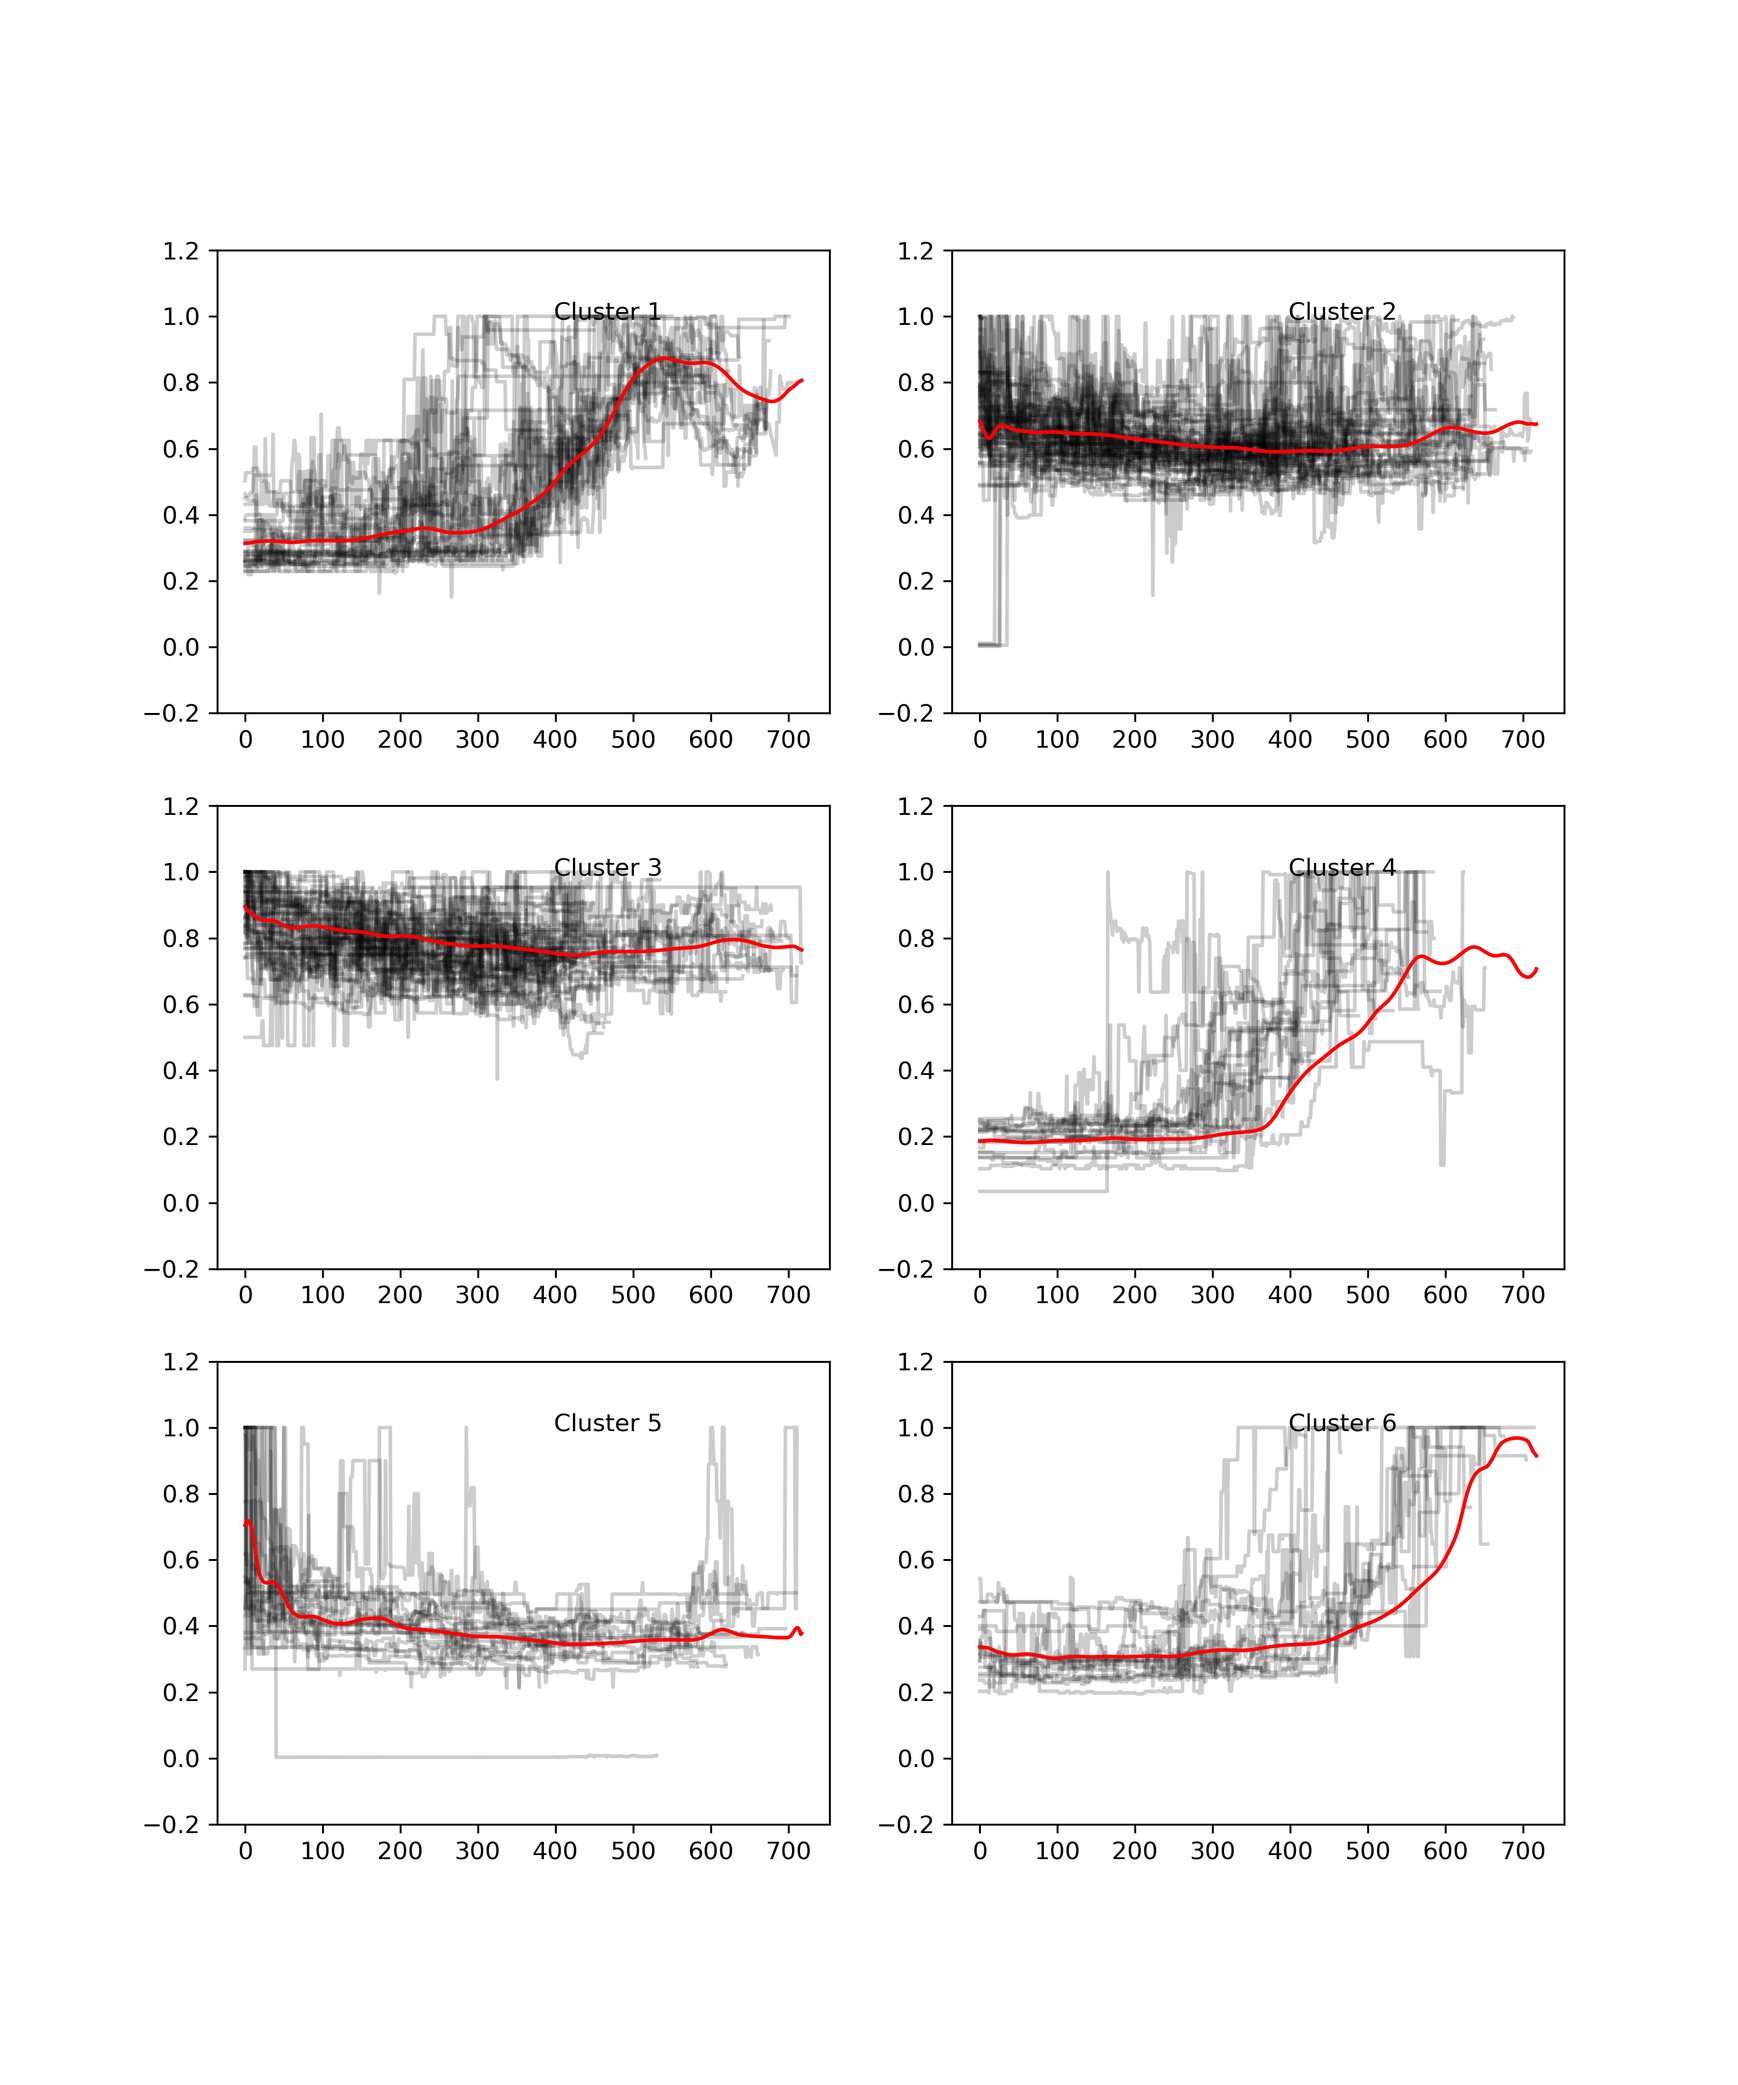
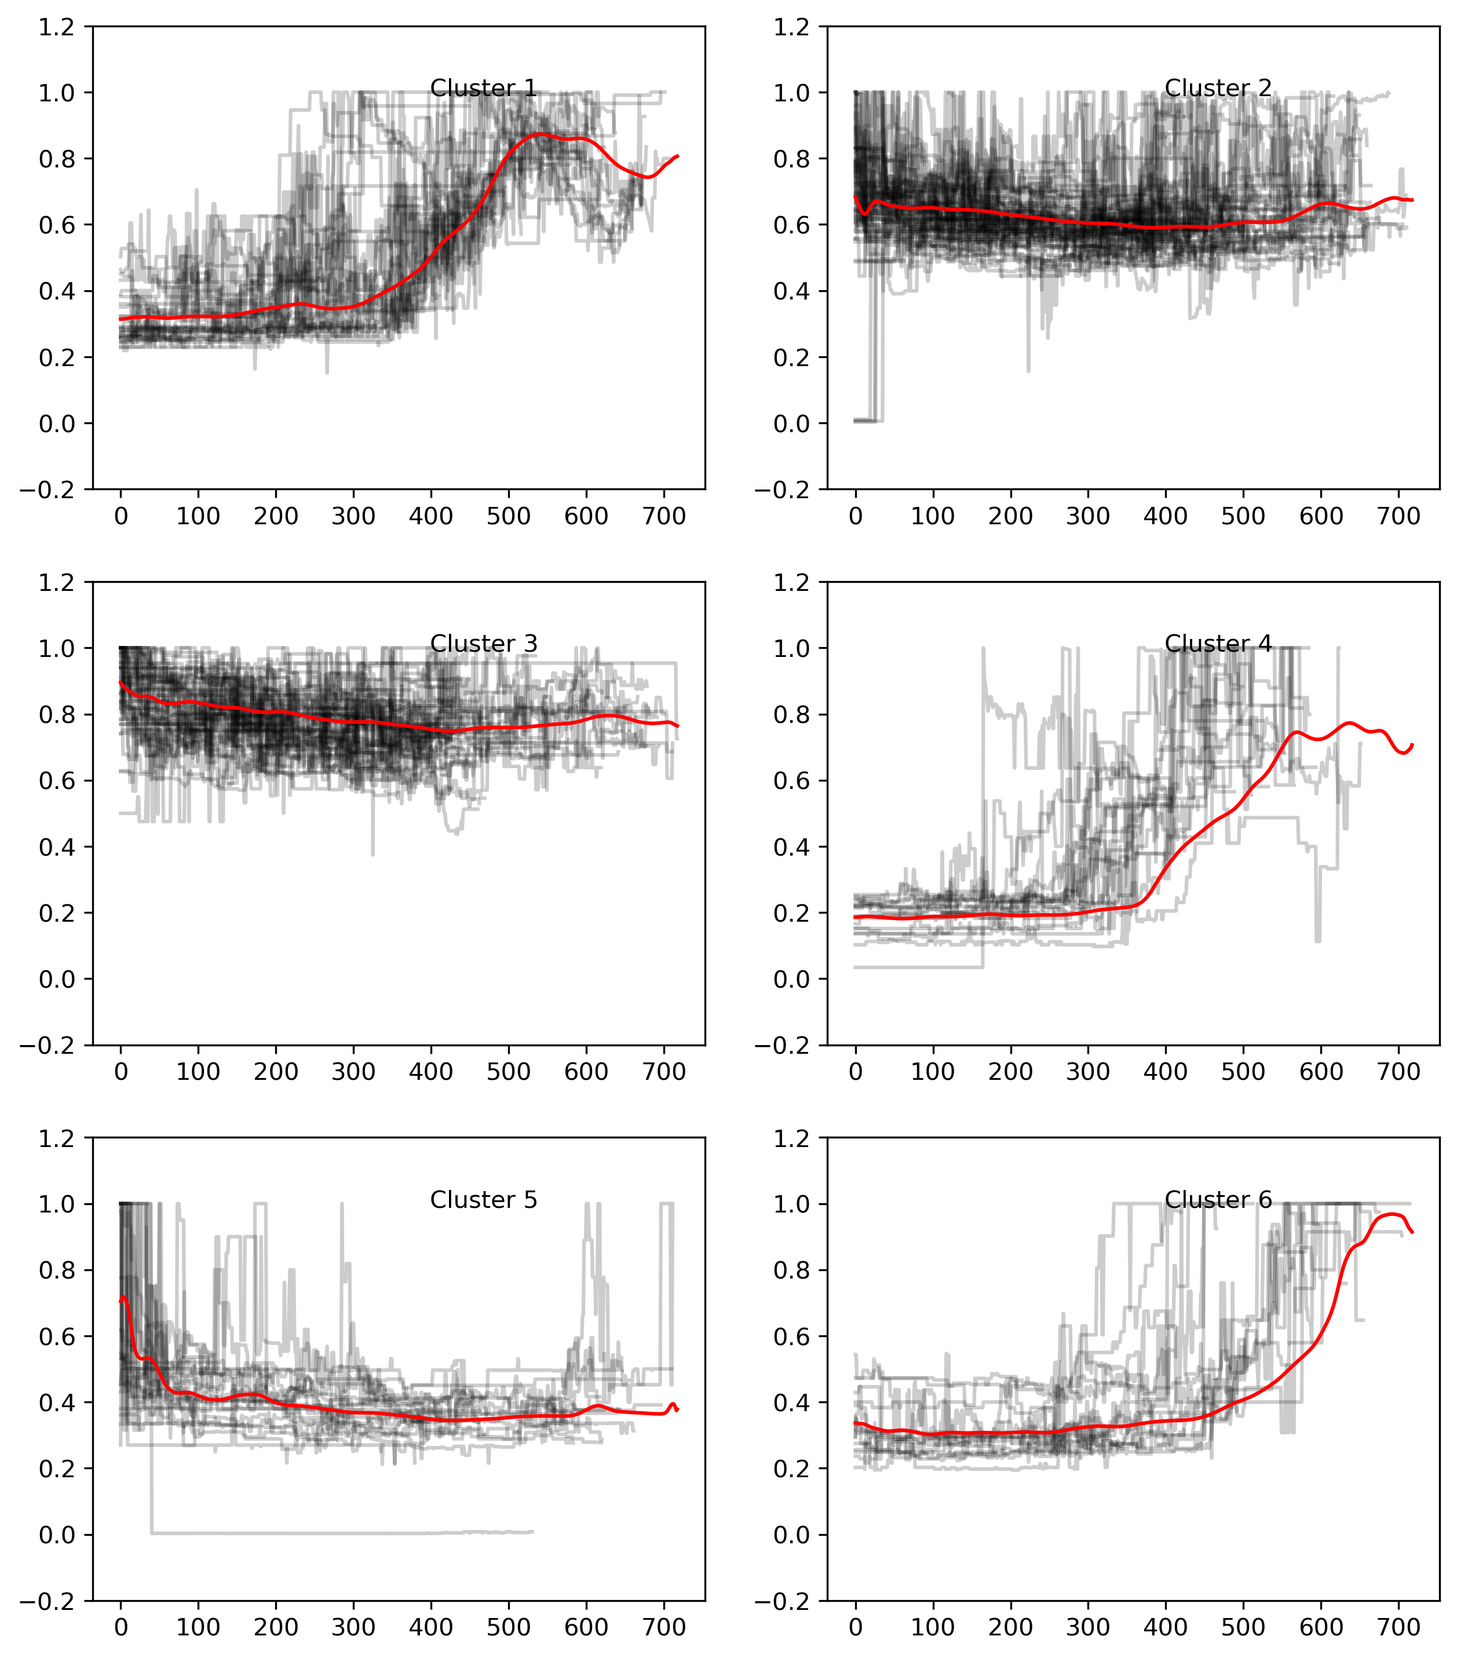
feat: amazon price clustering

diff --git a/ANLY501/5_clustering.html b/ANLY501/5_clustering.html
@@ -135,7 +135,7 @@
                 </tr>
                 <tr>
                     <td>label</td>
-                    <td>label, each row contains a product name as label</td>
+                    <td>label, each row contains product type + product name as label</td>
                 </tr>
             </table>
 
@@ -148,7 +148,7 @@
 
         </section>
 
-        <h3>1.2 Clustering on unequal-length Time Series (KMeans, metric: DTW)</h3>
+        <h3>1.2 Clustering on unequal-length Time Series (KMeans, metric: DTW, Soft-DTW)</h3>
 
         <section id="pc-uneq">
 
@@ -156,13 +156,258 @@
                 <a href="https://github.com/jingshenSN2/GU-ANLY-501-FALL-2021/blob/master/data/amazon/BUY_BOX_ts_1y.txt">BUY_BOX_ts_1y.txt</a>
                 can vary from 360(1 year) to 719(2 year).</p>
 
+            <p>DTW(<a href="https://tslearn.readthedocs.io/en/stable/user_guide/dtw.html">Dynamic Time Warping</a>) is a better
+                metric to measure the similarity between time series compare to euclidean metric, especially for unequal-length time series(which euclidean metric is no longer available). The <b>tslearn</b> package provides
+                this metric in Python and a time series version of KMeans clustering algorithm. A TimeSeriesKMeans model using DTW metric with n_clusters=8 is trained by the time series in <a href="https://github.com/jingshenSN2/GU-ANLY-501-FALL-2021/blob/master/data/amazon/NEW_ts_1y.txt">NEW_ts_1y.txt</a>. The table of clustering
+                results shows below. </p>
+
+            <table style="text-align:center;width:100%">
+                <caption>Type of products in each cluster of TimeSeriesKMeans model using DTW metric</caption>
+                <col width=25%>
+                <col width=25%>
+                <col width=25%>
+                <col width=25%>
+                <tr>
+                    <th style="text-align:center"></th>
+                    <th style="text-align:center">CPU</th>
+                    <th style="text-align:center">GPU</th>
+                    <th style="text-align:center">Drive</th>
+                </tr>
+                <tr>
+                    <td>Cluster 1</td>
+                    <td>2</td>
+                    <td><b>16</b></td>
+                    <td>1</td>
+                </tr>
+                <tr>
+                    <td>Cluster 2</td>
+                    <td>5</td>
+                    <td></td>
+                    <td><b>20</b></td>
+                </tr>
+                <tr>
+                    <td>Cluster 3</td>
+                    <td><b>10</b></td>
+                    <td>1</td>
+                    <td><b>28</b></td>
+                </tr>
+                <tr>
+                    <td>Cluster 4</td>
+                    <td>1</td>
+                    <td></td>
+                    <td><b>6</b></td>
+                </tr>
+                <tr>
+                    <td>Cluster 5</td>
+                    <td></td>
+                    <td><b>27</b></td>
+                    <td></td>
+                </tr>
+                <tr>
+                    <td>Cluster 6</td>
+                    <td>4</td>
+                    <td><b>14</b></td>
+                    <td></td>
+                </tr>
+                <tr>
+                    <td>Cluster 7</td>
+                    <td>3</td>
+                    <td>2</td>
+                    <td><b>12</b></td>
+                </tr>
+                <tr>
+                    <td>Cluster 8</td>
+                    <td>6</td>
+                    <td>4</td>
+                    <td><b>28</b></td>
+                </tr>
+            </table>
+
+            <p>The visualization of clusters shows below.</p>
+
+            <img style="width:95%" class="centerfig" src="picture/cluster/new_1y_dtw_8.png">
+            <figurecaption>Figure: visualization of clusters in TimeSeriesKMeans model using DTW metric</figurecaption>
+
+            <p>Some patterns can be found in the clustering table and visualization: </p>
+            <p>(1) Cluster 1,5,6 are both GPU-dominated clusters, they all show increasing trends in price which indicates an abnormal impact on their prices.</p>
+            <p>(2) Cluster 2,3,7,8 are both drive-dominated clusters, they all follow a normal decreasing trend in price which occurs in most goods.</p>
+            <p>(3) There's no CPU-dominated cluster, but most CPUs(25) follow the normal decreasing trend and only 6 CPUs follow the abnormal increasing trend.</p>
+
+            <p>The cluster centers of DTW metric are kind of sharp that have many sudden jumps. A variant of DTW names <a href="https://tslearn.readthedocs.io/en/stable/user_guide/dtw.html#soft-dtw">soft-DTW</a> gives much smoother cluster centers. A TimeSeriesKMeans model using soft-DTW metric with n_clusters=6 is trained by the same time series. The table of cluster result shows below.</p>
+
+            <table style="text-align:center;width:100%">
+                <caption>Type of products in each cluster of TimeSeriesKMeans model using soft-DTW metric</caption>
+                <col width=25%>
+                <col width=25%>
+                <col width=25%>
+                <col width=25%>
+                <tr>
+                    <th style="text-align:center"></th>
+                    <th style="text-align:center">CPU</th>
+                    <th style="text-align:center">GPU</th>
+                    <th style="text-align:center">Drive</th>
+                </tr>
+                <tr>
+                    <td>Cluster 1</td>
+                    <td>1</td>
+                    <td><b>26</b></td>
+                    <td></td>
+                </tr>
+                <tr>
+                    <td>Cluster 2</td>
+                    <td><b>15</b></td>
+                    <td>3</td>
+                    <td><b>40</b></td>
+                </tr>
+                <tr>
+                    <td>Cluster 3</td>
+                    <td>8</td>
+                    <td>4</td>
+                    <td><b>38</b></td>
+                </tr>
+                <tr>
+                    <td>Cluster 4</td>
+                    <td>1</td>
+                    <td><b>17</b></td>
+                    <td></td>
+                </tr>
+                <tr>
+                    <td>Cluster 5</td>
+                    <td>5</td>
+                    <td></td>
+                    <td><b>16</b></td>
+                </tr>
+                <tr>
+                    <td>Cluster 6</td>
+                    <td>1</td>
+                    <td><b>14</b></td>
+                    <td></td>
+                </tr>
+            </table>
+
+            <p>The visualization of clusters shows below.</p>
+
+            <img style="width:95%" class="centerfig" src="picture/cluster/new_1y_softdtw_6.png">
+            <figurecaption>Figure: visualization of clusters in TimeSeriesKMeans model using soft-DTW metric</figurecaption>
+
+            <p>Similar patterns can be found in this model: </p>
+            <p>(1) Cluster 1,4,6 are both GPU-dominated clusters, they all show increasing trends in price which indicates an abnormal impact on their prices.</p>
+            <p>(2) Cluster 2,3,5 are both drive-dominated clusters, they all follow a normal decreasing trend in price which occurs in most goods.</p>
+            <p>(3) There's no CPU-dominated cluster, but most CPUs(28) follow the normal decreasing trend and only 3 CPUs follow the abnormal increasing trend.</p>
+            <p>(4) The cluster centers are much smoother that the trends are clearly shown from them.</p>
 
         </section>
 
 
-        <h3>1.3 Clustering on equal-length Time Series (KMeans, metric: Euclidean, DTW, Soft-DTW)</h3>
+        <h3>1.3 Clustering on equal-length Time Series (KMeans, metric: Euclidean, Cross-correlation)</h3>
 
         <section id="pc-eq">
+
+            <p>Some metrics like euclidean and cross correlation in tslearn need equal-length time series as input. First, a TimeSeriesKMeans model using euclidean metric with n_clusters=6 is trained by the time series in <a href="https://github.com/jingshenSN2/GU-ANLY-501-FALL-2021/blob/master/data/amazon/NEW_eqts_1y.txt">NEW_eqts_1y.txt</a>. The table of cluster result shows below.</p>
+
+            <table style="text-align:center;width:100%">
+                <caption>Type of products in each cluster of TimeSeriesKMeans model using euclidean metric</caption>
+                <col width=25%>
+                <col width=25%>
+                <col width=25%>
+                <col width=25%>
+                <tr>
+                    <th style="text-align:center"></th>
+                    <th style="text-align:center">CPU</th>
+                    <th style="text-align:center">GPU</th>
+                    <th style="text-align:center">Drive</th>
+                </tr>
+                <tr>
+                    <td>Cluster 1</td>
+                    <td>1</td>
+                    <td><b>14</b></td>
+                    <td>1</td>
+                </tr>
+                <tr>
+                    <td>Cluster 2</td>
+                    <td><b>14</b></td>
+                    <td>2</td>
+                    <td><b>44</b></td>
+                </tr>
+                <tr>
+                    <td>Cluster 3</td>
+                    <td>8</td>
+                    <td>4</td>
+                    <td><b>38</b></td>
+                </tr>
+                <tr>
+                    <td>Cluster 4</td>
+                    <td>1</td>
+                    <td><b>26</b></td>
+                    <td>2</td>
+                </tr>
+                <tr>
+                    <td>Cluster 5</td>
+                    <td>1</td>
+                    <td>1</td>
+                    <td><b>19</b></td>
+                </tr>
+                <tr>
+                    <td>Cluster 6</td>
+                    <td>1</td>
+                    <td><b>18</b></td>
+                    <td></td>
+                </tr>
+            </table>
+
+            <p>The visualization of clusters shows below.</p>
+
+            <img style="width:95%" class="centerfig" src="picture/cluster/new_1y_euclidean_6.png">
+            <figurecaption>Figure: visualization of clusters in TimeSeriesKMeans model using euclidean metric</figurecaption>
+
+            <p>This model gives a very similar clustering result with the DTW model and soft-DTW model. But the smoothness of cluster centers are between two DTW models.</p>
+
+            <p>Then, a KShape model using cross-correlation metric with n_clusters=4 is trained by the same time series. The table of cluster result shows below.</p>
+
+            <table style="text-align:center;width:100%">
+                <caption>Type of products in each cluster of KShape model using cross-correlation metric</caption>
+                <col width=25%>
+                <col width=25%>
+                <col width=25%>
+                <col width=25%>
+                <tr>
+                    <th style="text-align:center"></th>
+                    <th style="text-align:center">CPU</th>
+                    <th style="text-align:center">GPU</th>
+                    <th style="text-align:center">Drive</th>
+                </tr>
+                <tr>
+                    <td>Cluster 1</td>
+                    <td><b>17</b></td>
+                    <td></td>
+                    <td><b>16</b></td>
+                </tr>
+                <tr>
+                    <td>Cluster 2</td>
+                    <td></td>
+                    <td><b>17</b></td>
+                    <td>1</td>
+                </tr>
+                <tr>
+                    <td>Cluster 3</td>
+                    <td>14</td>
+                    <td>12</td>
+                    <td><b>76</b></td>
+                </tr>
+                <tr>
+                    <td>Cluster 4</td>
+                    <td></td>
+                    <td><b>35</b></td>
+                    <td>1</td>
+                </tr>
+            </table>
+
+            <p>The visualization of clusters shows below.</p>
+
+            <img style="width:95%" class="centerfig" src="picture/cluster/new_1y_kshape_4.png">
+            <figurecaption>Figure: visualization of clusters in KShape model using cross-correlation metric</figurecaption>
+
+            <p>The number of clusters of this model is only 4, 2 GPU-dominated clusters and 2 CPU-drive-mixed clusters.</p>
 
         </section>
 

diff --git a/ANLY501/style.css b/ANLY501/style.css
@@ -4,7 +4,7 @@ body {
 }
 
 h1, h2, h3 {
-  font-family: 'Courier', monospace;
+    font-family: Verdana, sans-serif;
     color: Midnightblue;
 }
 
